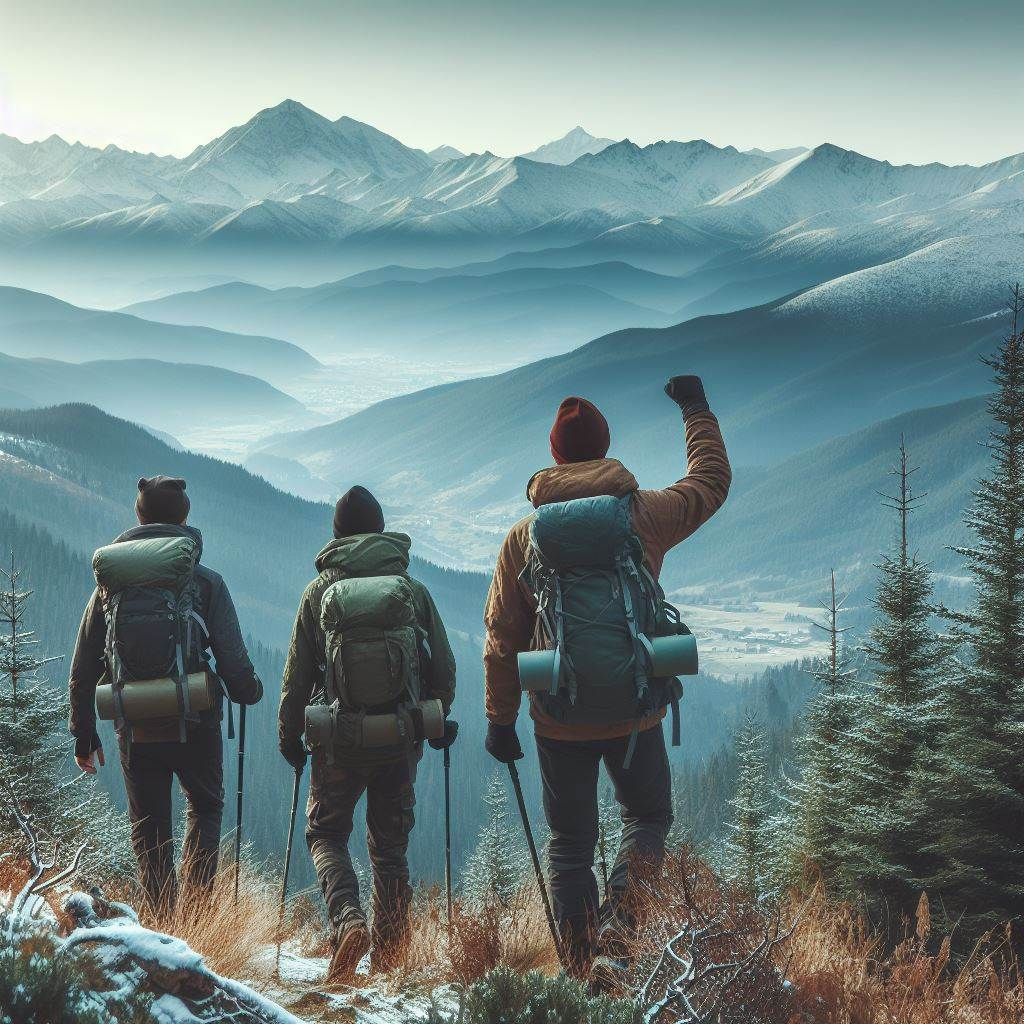
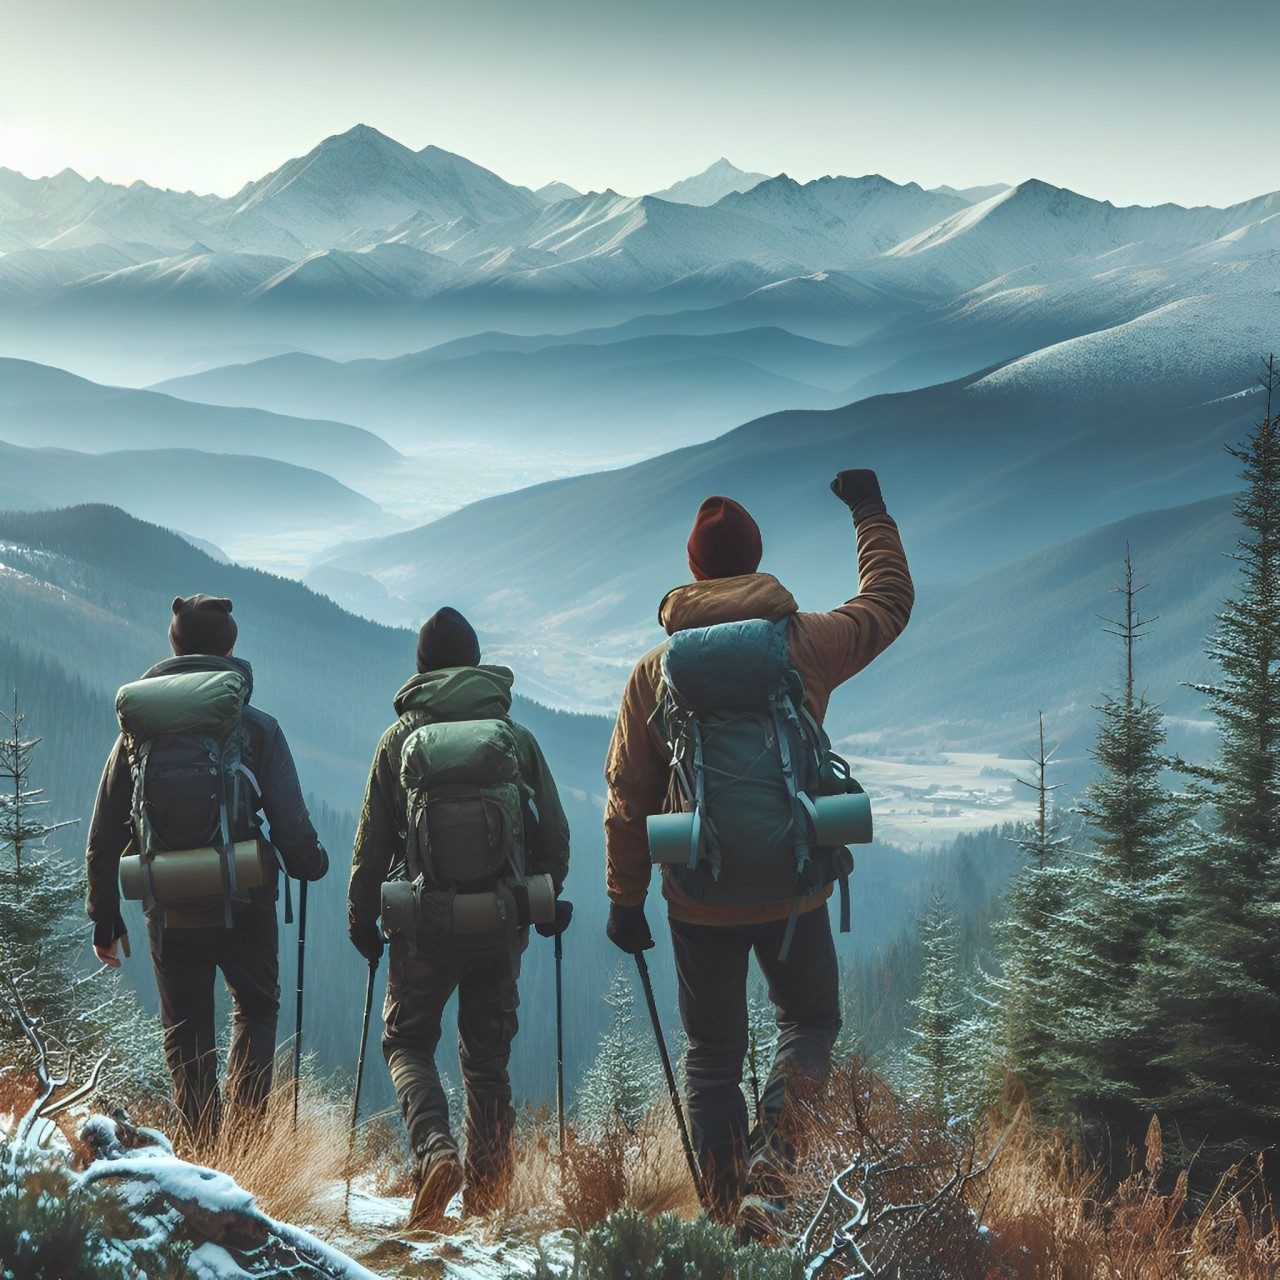
enhanced welcome img

diff --git a/src/css/welcomePage.css b/src/css/welcomePage.css
@@ -11,6 +11,7 @@
   background-image: var(--background-img);
   background-repeat: no-repeat;
   background-size: fill;
+  background-position-y: 30%;
   background-position-x: 90%;
 
   display: flex;
@@ -54,13 +55,14 @@
         rgba(255, 255, 255, 1)
       ),
       var(--background-img);
-      background-size: cover;
+      
     background-position-x: center;
+    background-position-y: 30%;
   }
 
   .welcomePageContainer h1,
   .welcomePageContainer b {
-    color: var(--color-dark);
+    color: var(--main-color);
     font-size: 30px;
     text-shadow: 0px 2px 5px black;
   }

diff --git a/index.html b/index.html
@@ -32,11 +32,14 @@
             alt="RainyDays_Logo"
           />
         </div>
-  
-        <h1 class="whiteFont">
-          <b class="medium">click</b>
-          to get started!
-        </h1>
+
+          <h1 class="whiteFont">
+            <b class="medium">click</b>
+            or
+            <b class="medium">drag</b>
+            to get started!
+          </h1>
+
       </a>
     </div>
   </body>
